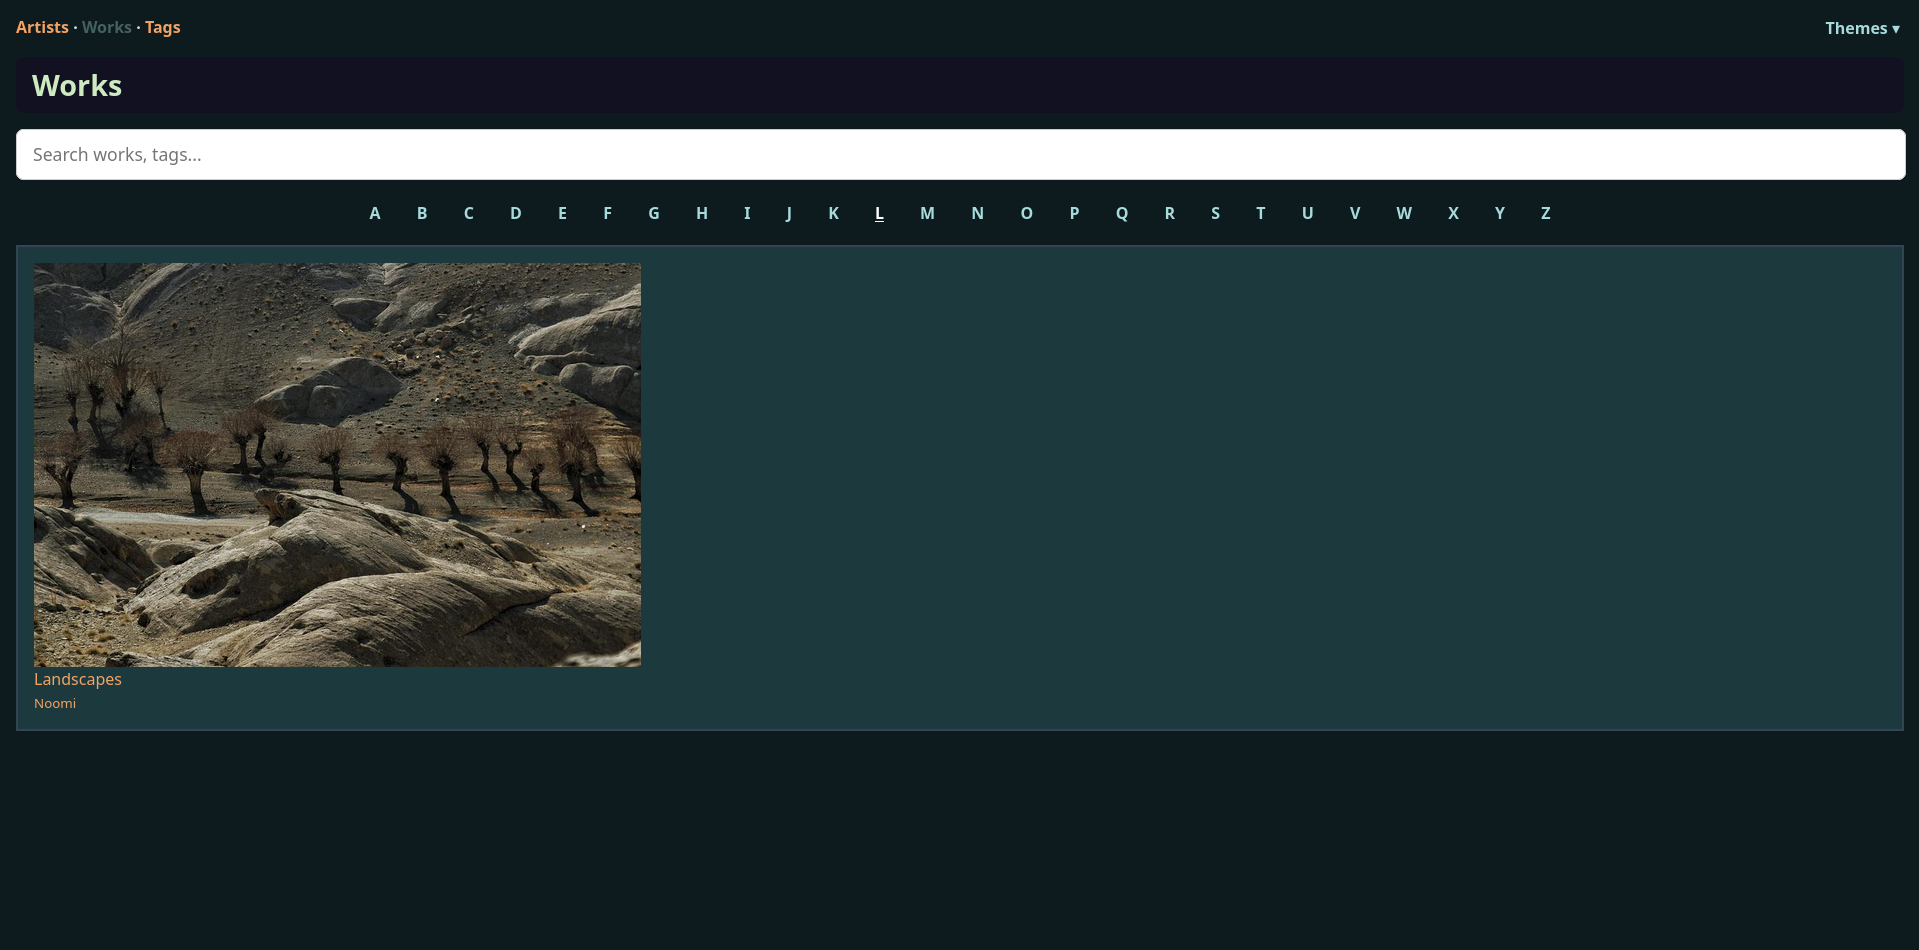
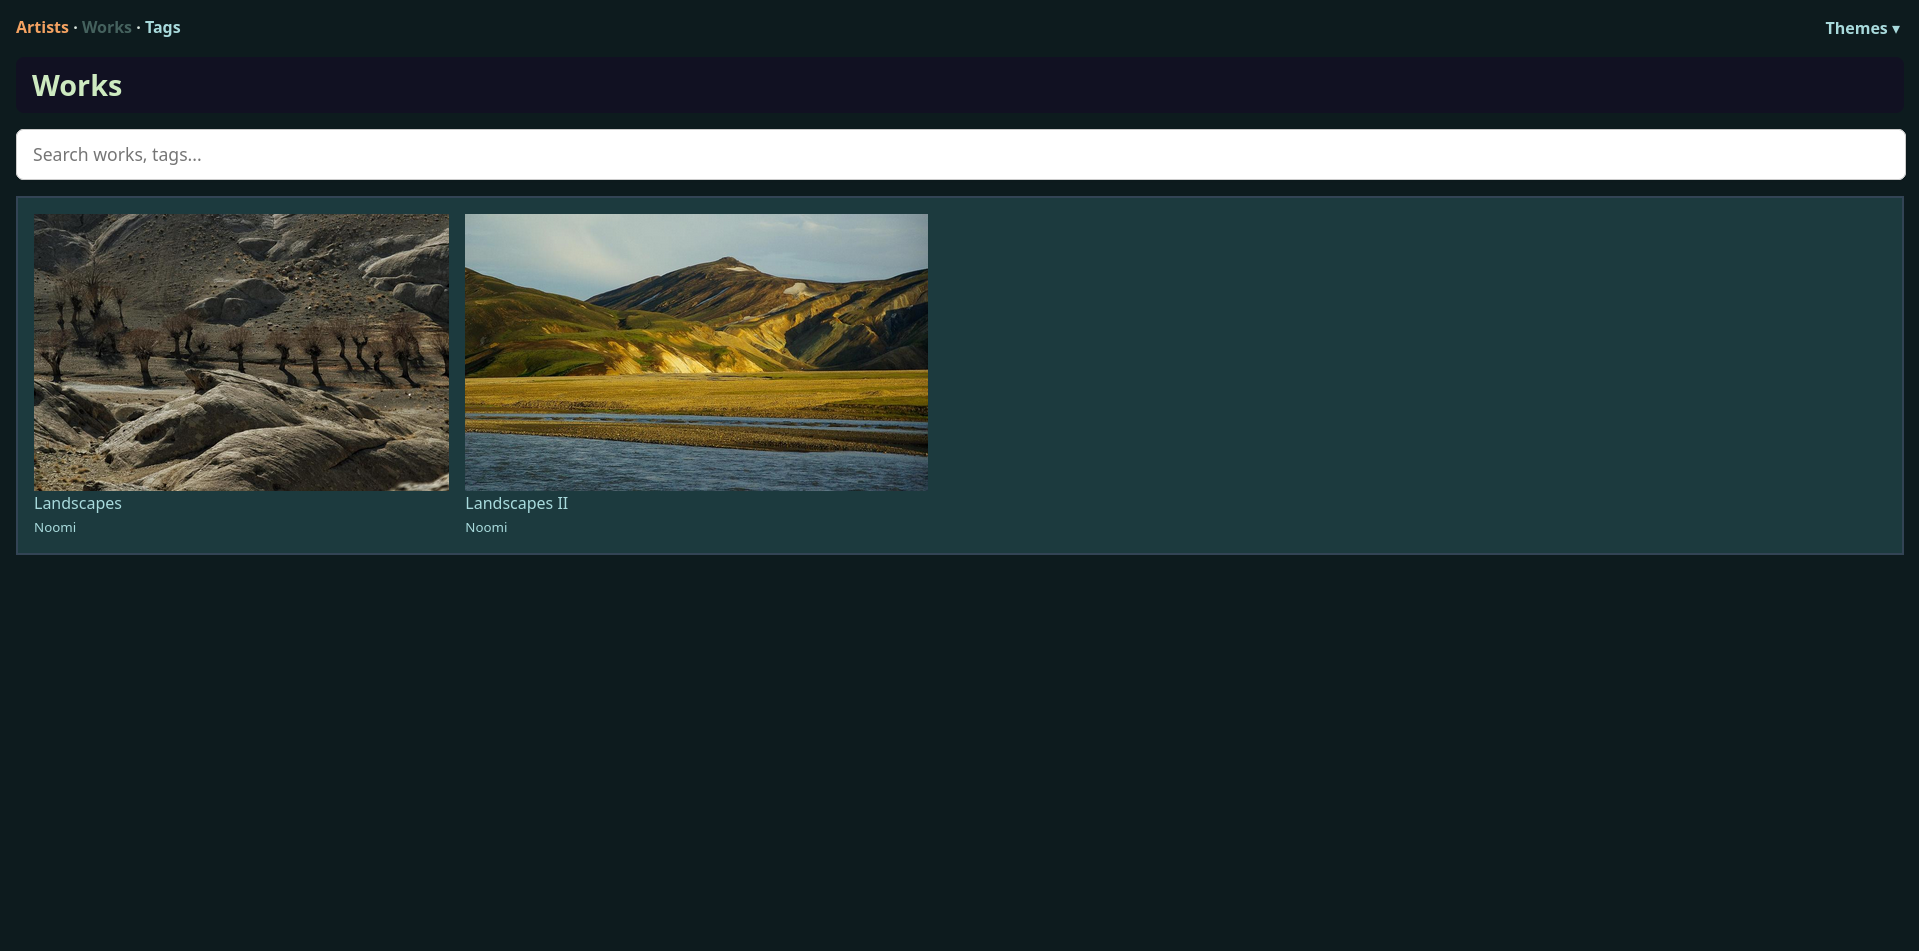
Update example and README.md

diff --git a/README.md b/README.md
@@ -3,10 +3,11 @@
 > **⚠ Under Construction**
 > This project is still in development. Features, structure, and configuration may change without notice.
 
-A fast, static site generator for organizing and showcasing creative media collections.
+A fast, static site generator for organizing and showcasing media collections.
+
 cr4te scans your existing folder structure, extracts metadata and media (images, videos, audio, documents), and generates clean, responsive HTML galleries. With built-in search, tagging, filtering, and pagination, it's ideal for archiving, browsing, or publishing rich media portfolios—no manual curation or database required.
 
-<img src="data/example/artist_page.png" alt="Screenshot Creator Page" width="100%"/>
+<img src="data/example/artist_page.png" alt="Screenshot Artist Page" width="100%"/>
 
 [View full gallery](SCREENSHOTS.md)
 
@@ -45,10 +46,10 @@ Domain/
 
 This could represent domains like:
 
-* Music → Musician → Album
-* Library → Author → Book
-* Movies → Director → Film
-* Design Portfolios → Designer → Project
+* **Music** → Musician → Album
+* **Library** → Author → Book
+* **Movies** → Director → Film
+* **Design Portfolios** → Designer → Project
 
 ...and so on.
 

diff --git a/data/example/Artists/Noomi/Landscapes II/README.md b/data/example/Artists/Noomi/Landscapes II/README.md
@@ -1,0 +1,11 @@
+A collection of landscape photographs.
+
+### What's included
+
+- **Death Valley, USA** — Barren ridges that look like brushstrokes.
+- **Icelandic Highlands** — The contrast of green moss and volcanic stone is surreal.
+- **Patagonia, Argentina** — A sharp peak surrounded by clouds.
+
+---
+
+*Noomi is a fictional character, created along with this portfolio to help you explore what `cr4te` can do. All media used here is royalty-free and safe to use.*

diff --git a/info/HOW-TOs.md b/info/HOW-TOs.md
@@ -1,4 +1,4 @@
-# How Tos
+# How-Tos
 
 ## Create Default Images
 
